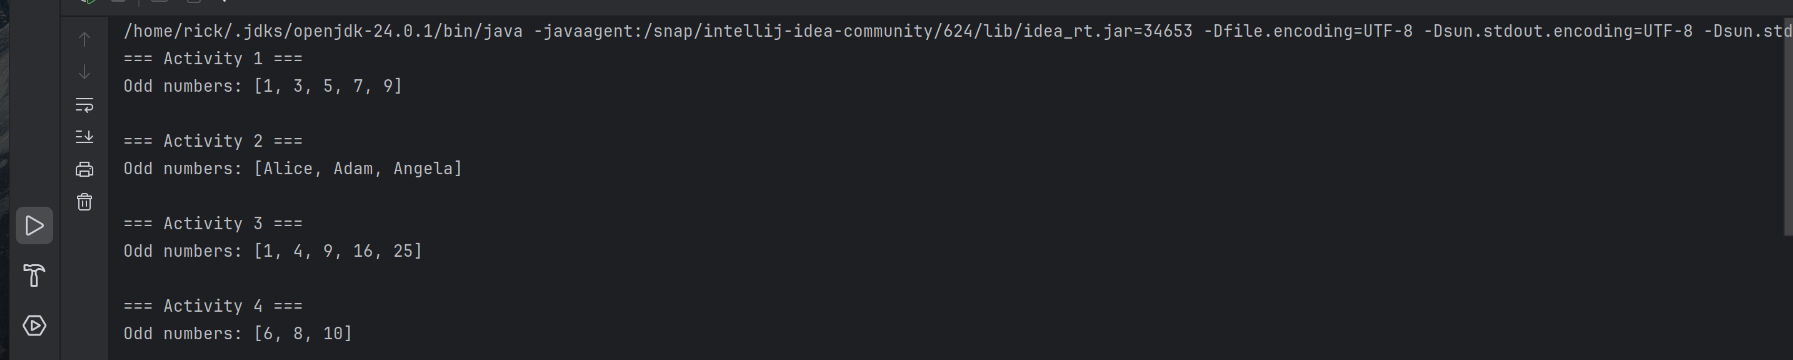
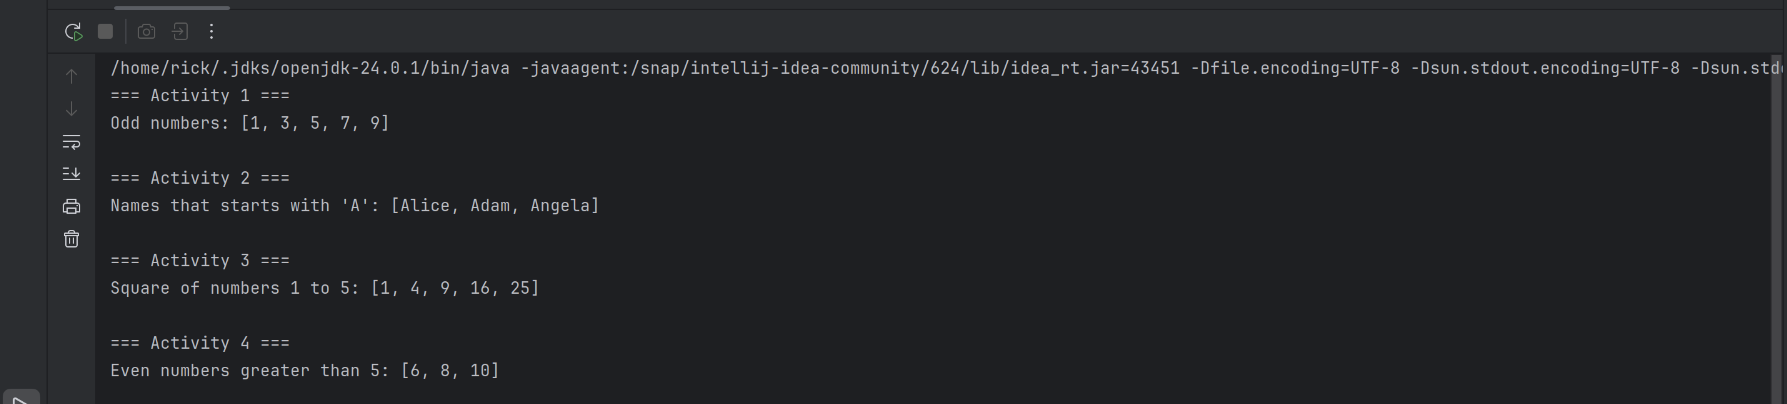
Final Submission - Java Streams: Basic Functional Programming

diff --git a/src/main/java/org/example/Main.java b/src/main/java/org/example/Main.java
@@ -17,13 +17,13 @@ public class Main {
         List<String> names = List.of("Alice", "Adam", "Bob", "Angela", "Bryan");
         Predicate<String> startsWithA = s -> s.charAt(0) == 'A';
         List<String> namesThatStartsWithA = names.stream().filter(startsWithA).collect(Collectors.toList());
-        System.out.println("Odd numbers: " + namesThatStartsWithA.toString());
+        System.out.println("Names that starts with 'A': " + namesThatStartsWithA.toString());
         System.out.println("");
 
         System.out.println("=== Activity 3 ===");
         List<Integer> numbers1to5 = List.of(1, 2, 3, 4, 5);
         List<Integer> squareOfNumbers1to5 = numbers1to5.stream().map(n -> {return n*n;}).collect(Collectors.toList());
-        System.out.println("Odd numbers: " + squareOfNumbers1to5.toString());
+        System.out.println("Square of numbers 1 to 5: " + squareOfNumbers1to5.toString());
         System.out.println("");
 
         System.out.println("=== Activity 4 ===");
@@ -31,7 +31,7 @@ public class Main {
         Predicate<Integer> isGreaterThanFive = n -> n > 5;
         // Will use the same numbers1to10
         List<Integer> evenNumbersGreaterThan5 = numbers1to10.stream().filter(isEven.and(isGreaterThanFive)).collect(Collectors.toList());
-        System.out.println("Odd numbers: " + evenNumbersGreaterThan5.toString());
+        System.out.println("Even numbers greater than 5: " + evenNumbersGreaterThan5.toString());
         System.out.println("");
 
         System.out.println("=== Activity 5 ===");
